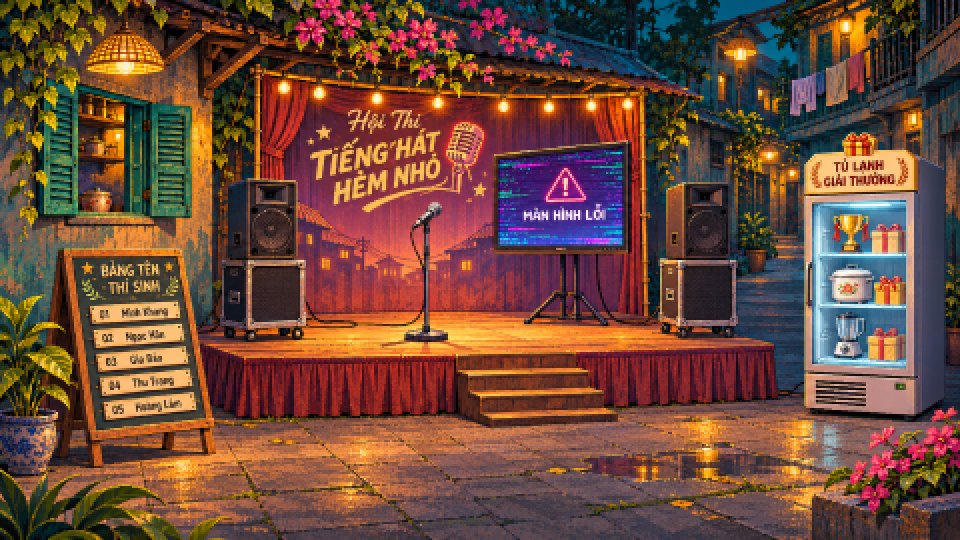
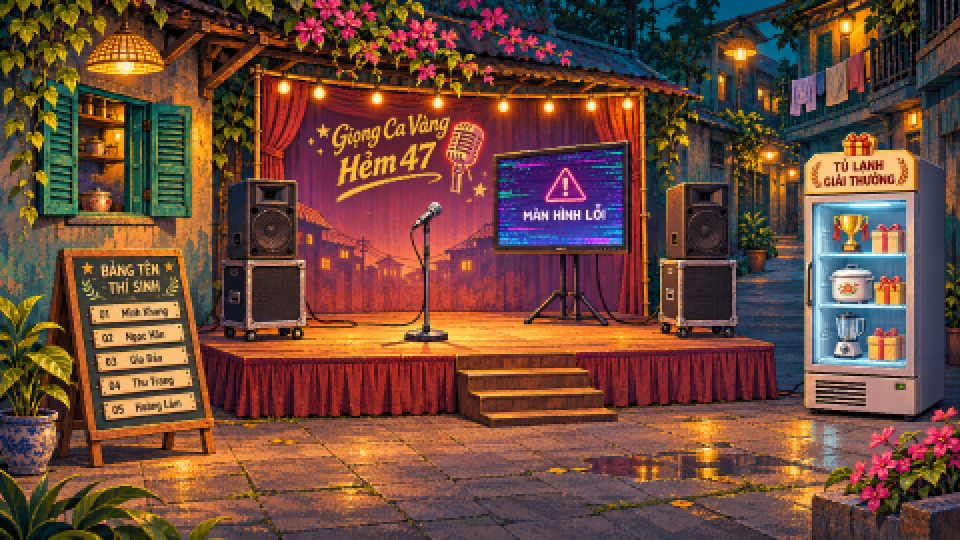
Correct four season two scenes

Changed region(s): [[0.3125, 0.1778, 0.4688, 0.3852]]

diff --git a/docs/tham-tu-hem/ASSET-HANDOFF.md b/docs/tham-tu-hem/ASSET-HANDOFF.md
@@ -41,3 +41,10 @@ Commit asset đợt 3: ae69436.
 Tám cảnh báo thuộc icon vật chứng mùa 1 đã được soi và ghi ở đợt 3. Đợt 4 có 0 cảnh báo mới.
 Bản đồ đã có ảnh và dữ liệu điểm bấm. Màn bản đồ trên nhánh gốc hiện vẫn đọc bản đồ mùa 1.
 Commit asset đợt 4: `4f9f5c9`.
+
+### Sửa cảnh mùa 2
+
+Vẽ mới góc tủ điện ngoài trời và bếp tiệc công nghiệp. Sửa giải đặc biệt thành 230479 và băng rôn thành Giọng Ca Vàng Hẻm 47. Đã cập nhật vùng soi và đồng bộ manifest.
+
+Bộ kiểm: 0 lỗi, 8 cảnh báo từ mùa 1 — ĐẠT.
+
